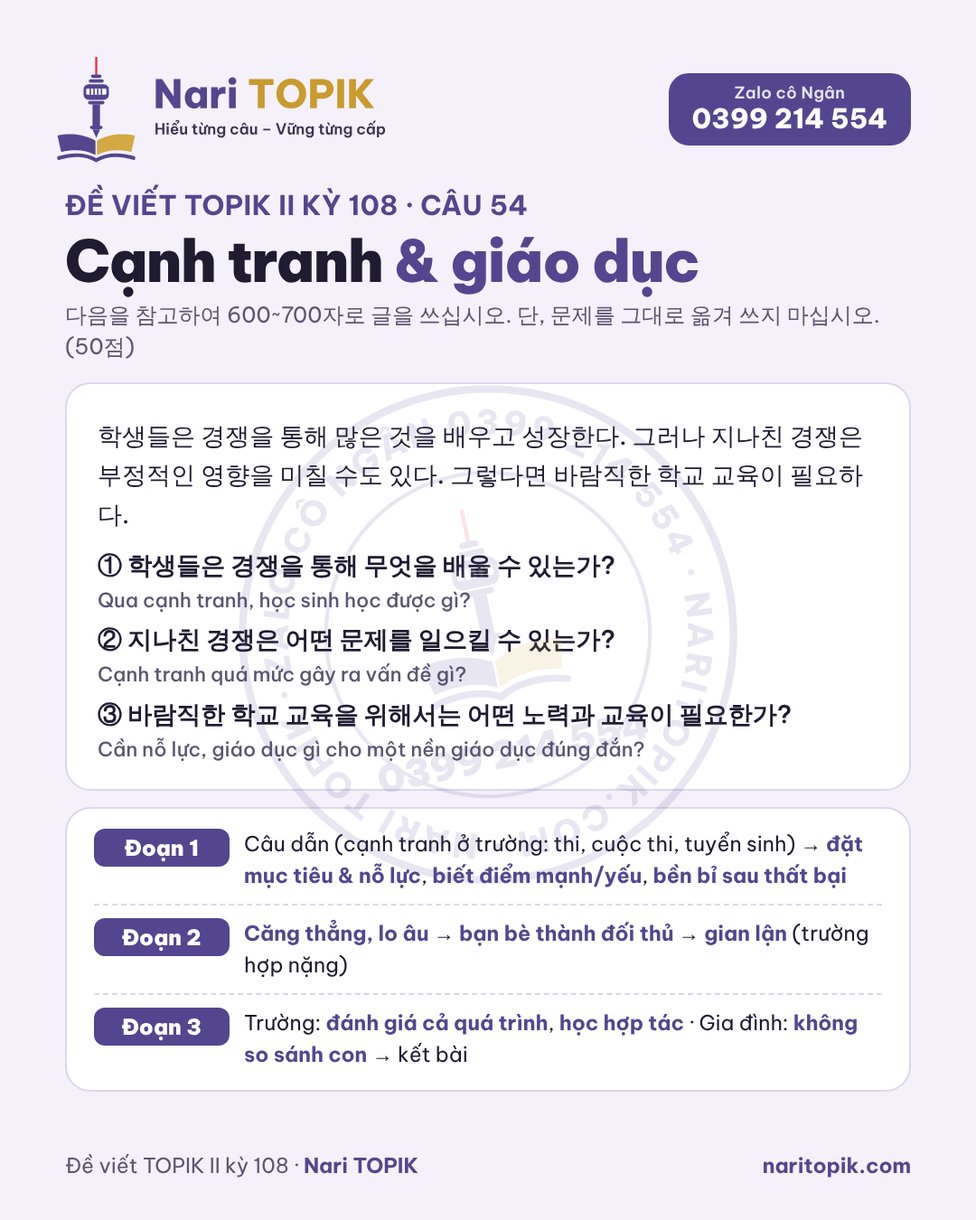
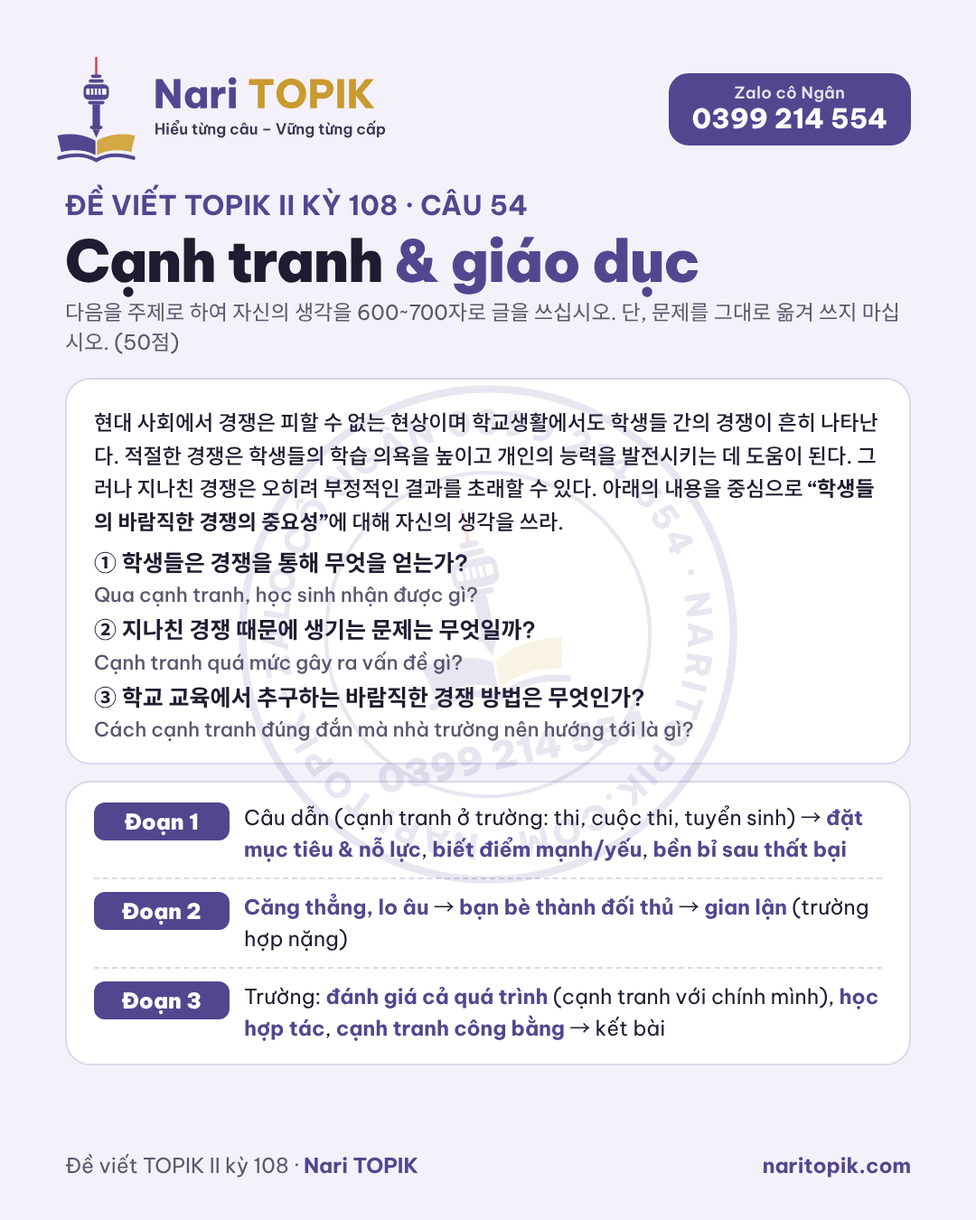
Đề viết kỳ 108: 2 ảnh đề sạch, sửa câu chữ đề theo bản đầy đủ (51, 52, 54) ở ảnh đáp án và ngân hàng đề
Claude-Session: https://claude.ai/code/session_01FuwFKNRPFAGRCemb9KsKcQ

Changed region(s): [[0.0611, 0.2489, 0.9167, 0.8711]]

diff --git a/fb/de-viet-108/de-2.html b/fb/de-viet-108/de-2.html
@@ -1,0 +1,67 @@
+<!doctype html><meta charset=utf-8><link rel=stylesheet href="../../quang-cao/topik2-len-3-4/base.css"><link rel=stylesheet href=de.css>
+<style>
+.hd{margin-top:22px;display:flex;align-items:baseline;justify-content:space-between}
+.hd .t{font-size:40px;font-weight:900;letter-spacing:-.5px}.hd .t span{color:var(--v)}
+.hd .n{font-size:22px;font-weight:700;color:var(--dim)}
+.ins{margin-top:14px;font-size:24px;font-weight:700;line-height:1.5}
+.ins u{text-underline-offset:4px}
+.qn{margin-top:18px;font-size:26px;font-weight:900;color:var(--v)}
+.bx{margin-top:8px;padding:20px 28px;font-size:25px;line-height:1.75;font-weight:500;word-break:keep-all}
+.bx b{font-weight:800}
+.bx ul{margin:6px 0 0 30px;line-height:1.7}
+.bl{display:inline-block;min-width:96px;text-align:center;color:var(--v);font-weight:800}
+
+.ch{margin-top:20px;padding:26px 30px}
+.ch .tt{text-align:center;font-size:36px;font-weight:900}
+.ch .src{font-size:22px;color:var(--dim);margin-top:4px;text-align:center}
+.two{display:grid;grid-template-columns:1fr 1fr;gap:18px;margin-top:20px}
+.box{border:2px solid var(--line);border-radius:20px;padding:16px 14px 10px}
+.box .bh{background:var(--v);color:#fff;font-weight:800;font-size:23px;text-align:center;border-radius:12px;padding:8px}
+svg{display:block;width:100%;margin-top:6px}
+svg text{font-family:'Be Vietnam Pro';fill:var(--ink)}
+.cause{margin-top:18px;display:grid;grid-template-columns:150px 1fr;border:2px solid var(--line);border-radius:20px;overflow:hidden}
+.cause .l{background:var(--ink);color:#fff;font-weight:800;font-size:26px;display:flex;align-items:center;justify-content:center;text-align:center;line-height:1.4}
+.cause .r{padding:16px 22px;font-size:25px;line-height:1.75;font-weight:600}
+.cause .r small{display:block;font-size:20px;color:var(--dim);font-weight:500;line-height:1.35;margin:-4px 0 6px}
+
+.ch{margin-top:10px;padding:16px 22px}.two{margin-top:12px}.cause{margin-top:12px}.cause .r{line-height:1.6;padding:12px 20px;font-size:23px}.box svg{margin-top:2px;height:215px}
+</style>
+<div class=top><img src="../../logo/nari-topik-ngang.svg"><div class="tag zalo"><small>Zalo cô Ngân</small>0399 214 554</div></div>
+<div class=hd><div class=t>제108회 TOPIK Ⅱ <span>쓰기</span></div><div class=n>51번 ~ 54번 · 2/2</div></div>
+<div class=ins>※ [53] 다음을 참고하여 ‘외국인 관광객 화장품 구매 현황’에 대한 글을 200~300자로 쓰십시오. 단, 글의 제목을 쓰지 마시오. (30점)</div>
+<div class="card ch"><div class=src style="text-align:left;font-weight:700;color:var(--ink)">※ 조사기관: 인주경제연구소</div>
+ <div class=two>
+  <div class=box><div class=bh>외국인 관광객 화장품 구매액</div>
+   <svg viewBox="0 0 420 300">
+    <text x="20" y="34" font-size="17">(단위: 원)</text>
+    <line x1="40" y1="44" x2="40" y2="244" stroke="#1F1B30" stroke-width="3"/><line x1="40" y1="244" x2="400" y2="244" stroke="#1F1B30" stroke-width="3"/>
+    <line x1="120" y1="200" x2="120" y2="244" stroke="#999" stroke-dasharray="5 5" stroke-width="2"/><line x1="320" y1="150" x2="320" y2="244" stroke="#999" stroke-dasharray="5 5" stroke-width="2"/>
+    <polygon points="200,70 240,106 220,106 220,140 180,140 180,106 160,106" fill="#ECE8F7" stroke="#53468F" stroke-width="2"/>
+    <text x="200" y="130" font-size="17" font-weight="900" text-anchor="middle" fill="#53468F">2배</text>
+    <line x1="120" y1="200" x2="320" y2="150" stroke="#53468F" stroke-width="5"/>
+    <circle cx="120" cy="200" r="9" fill="#53468F"/><circle cx="320" cy="150" r="9" fill="#53468F"/>
+    <text x="104" y="186" font-size="26" font-weight="800" text-anchor="middle">1조</text><text x="356" y="140" font-size="26" font-weight="800" text-anchor="middle">2조</text>
+    <text x="120" y="280" font-size="22" font-weight="700" text-anchor="middle">2023년</text><text x="320" y="280" font-size="22" font-weight="700" text-anchor="middle">2025년</text>
+   </svg></div>
+  <div class=box><div class=bh>업종별 화장품 매출액</div>
+   <svg viewBox="0 0 420 300">
+    <line x1="20" y1="44" x2="20" y2="226" stroke="#1F1B30" stroke-width="3"/><line x1="20" y1="226" x2="410" y2="226" stroke="#1F1B30" stroke-width="3"/>
+    <rect x="40" y="96" width="70" height="130" fill="#53468F"/><rect x="125" y="116" width="70" height="110" fill="#53468F"/>
+    <rect x="225" y="196" width="70" height="30" fill="#D4A843"/><rect x="315" y="70" width="70" height="156" fill="#D4A843"/>
+    <path d="M78 88 Q125 66 158 104" fill="none" stroke="#E0313F" stroke-width="4" marker-end="url(#ar)"/>
+    <path d="M262 186 Q270 70 345 52" fill="none" stroke="#E0313F" stroke-width="4" marker-end="url(#ar)"/>
+    <defs><marker id="ar" viewBox="0 0 10 10" refX="6" refY="5" markerWidth="5" markerHeight="5" orient="auto"><path d="M0 0L10 5L0 10z" fill="#E0313F"/></marker></defs>
+    <rect x="96" y="40" width="74" height="30" rx="8" fill="#1F1B30"/><text x="133" y="62" font-size="19" font-weight="800" text-anchor="middle" fill="#fff" style="fill:#fff">15%↓</text>
+    <rect x="236" y="22" width="74" height="30" rx="8" fill="#1F1B30"/><text x="273" y="44" font-size="19" font-weight="800" text-anchor="middle" style="fill:#fff">80%↑</text>
+    <text x="75" y="250" font-size="18" font-weight="700" text-anchor="middle">2023년</text><text x="160" y="250" font-size="18" font-weight="700" text-anchor="middle">2025년</text>
+    <text x="260" y="250" font-size="18" font-weight="700" text-anchor="middle">2023년</text><text x="350" y="250" font-size="18" font-weight="700" text-anchor="middle">2025년</text>
+    <text x="117" y="282" font-size="20" font-weight="800" text-anchor="middle">백화점·면세점</text><text x="305" y="282" font-size="20" font-weight="800" text-anchor="middle">중저가 소매업</text>
+   </svg></div>
+ </div>
+ <div class=cause><div class=l>변화<br>원인</div><div class=r>· 고가 상품의 구매 선호 ⇒ 실속형 상품의 구매 선호<br>· 화장품 사용 후기 콘텐츠 ↑ ⇒ 마케팅 효과 ↑</div></div>
+</div>
+<div class=ins style="margin-top:16px">※ [54] 다음을 주제로 하여 자신의 생각을 600~700자로 글을 쓰십시오. 단, 문제를 그대로 옮겨 쓰지 마십시오. (50점)</div>
+<div class="card bx" style="font-size:23px;line-height:1.65;padding:16px 26px">현대 사회에서 경쟁은 피할 수 없는 현상이며 학교생활에서도 학생들 간의 경쟁이 흔히 나타난다. 적절한 경쟁은 학생들의 학습 의욕을 높이고 개인의 능력을 발전시키는 데 도움이 된다. 그러나 지나친 경쟁은 오히려 부정적인 결과를 초래할 수 있다. 아래의 내용을 중심으로 <b>“학생들의 바람직한 경쟁의 중요성”</b>에 대해 자신의 생각을 쓰라.
+<ul><li>학생들은 경쟁을 통해 무엇을 얻는가?</li><li>지나친 경쟁 때문에 생기는 문제는 무엇일까?</li><li>학교 교육에서 추구하는 바람직한 경쟁 방법은 무엇인가?</li></ul></div>
+<div class=foot><span>Đề viết TOPIK II kỳ 108 · <b>Nari TOPIK</b></span><span><b>naritopik.com</b></span></div>
+<script src="../../quang-cao/wm.js"></script>

diff --git a/fb/de-viet-108/6-cau-54-de.html b/fb/de-viet-108/6-cau-54-de.html
@@ -2,7 +2,7 @@
 <div class=top><img src="../../logo/nari-topik-ngang.svg"><div class="tag zalo"><small>Zalo cô Ngân</small>0399 214 554</div></div>
 <style>
 .q .p{font-size:27px}
-.q ol{margin:12px 0 0 0;padding-left:0;list-style:none;font-size:27px;line-height:1.6;font-weight:600}
+.q{padding:20px 30px}.q ol{margin:8px 0 0 0;padding-left:0;list-style:none;font-size:25px;line-height:1.5;font-weight:600}
 .q ol li{margin-top:4px}
 .q ol li small{display:block;font-size:22px;color:var(--dim);font-weight:500}
 .plan{margin-top:18px;padding:8px 30px}
@@ -14,15 +14,15 @@
 </style>
 <div class=eye>Đề viết TOPIK II kỳ 108 · Câu 54</div>
 <h1>Cạnh tranh <span class=v>&amp; giáo dục</span></h1>
-<div class=lead style="font-size:24px;margin-top:8px">다음을 참고하여 600~700자로 글을 쓰십시오. 단, 문제를 그대로 옮겨 쓰지 마십시오. (50점)</div>
-<div class="card q"><div class=p>학생들은 경쟁을 통해 많은 것을 배우고 성장한다. 그러나 지나친 경쟁은 부정적인 영향을 미칠 수도 있다. 그렇다면 바람직한 학교 교육이 필요하다.</div>
-<ol><li>① 학생들은 경쟁을 통해 무엇을 배울 수 있는가?<small>Qua cạnh tranh, học sinh học được gì?</small></li>
-<li>② 지나친 경쟁은 어떤 문제를 일으킬 수 있는가?<small>Cạnh tranh quá mức gây ra vấn đề gì?</small></li>
-<li>③ 바람직한 학교 교육을 위해서는 어떤 노력과 교육이 필요한가?<small>Cần nỗ lực, giáo dục gì cho một nền giáo dục đúng đắn?</small></li></ol></div>
+<div class=lead style="font-size:23px;margin-top:6px">다음을 주제로 하여 자신의 생각을 600~700자로 글을 쓰십시오. 단, 문제를 그대로 옮겨 쓰지 마십시오. (50점)</div>
+<div class="card q"><div class=p style="font-size:23px;line-height:1.6">현대 사회에서 경쟁은 피할 수 없는 현상이며 학교생활에서도 학생들 간의 경쟁이 흔히 나타난다. 적절한 경쟁은 학생들의 학습 의욕을 높이고 개인의 능력을 발전시키는 데 도움이 된다. 그러나 지나친 경쟁은 오히려 부정적인 결과를 초래할 수 있다. 아래의 내용을 중심으로 <b>“학생들의 바람직한 경쟁의 중요성”</b>에 대해 자신의 생각을 쓰라.</div>
+<ol><li>① 학생들은 경쟁을 통해 무엇을 얻는가?<small>Qua cạnh tranh, học sinh nhận được gì?</small></li>
+<li>② 지나친 경쟁 때문에 생기는 문제는 무엇일까?<small>Cạnh tranh quá mức gây ra vấn đề gì?</small></li>
+<li>③ 학교 교육에서 추구하는 바람직한 경쟁 방법은 무엇인가?<small>Cách cạnh tranh đúng đắn mà nhà trường nên hướng tới là gì?</small></li></ol></div>
 <div class="card plan">
  <div class=r><span class=d>Đoạn 1</span><span class=t>Câu dẫn (cạnh tranh ở trường: thi, cuộc thi, tuyển sinh) → <b>đặt mục tiêu &amp; nỗ lực</b>, <b>biết điểm mạnh/yếu</b>, <b>bền bỉ sau thất bại</b></span></div>
  <div class=r><span class=d>Đoạn 2</span><span class=t><b>Căng thẳng, lo âu</b> → <b>bạn bè thành đối thủ</b> → <b>gian lận</b> (trường hợp nặng)</span></div>
- <div class=r><span class=d>Đoạn 3</span><span class=t>Trường: <b>đánh giá cả quá trình</b>, <b>học hợp tác</b> · Gia đình: <b>không so sánh con</b> → kết bài</span></div>
+ <div class=r><span class=d>Đoạn 3</span><span class=t>Trường: <b>đánh giá cả quá trình</b> (cạnh tranh với chính mình), <b>học hợp tác</b>, <b>cạnh tranh công bằng</b> → kết bài</span></div>
 </div>
 <div class=foot><span>Đề viết TOPIK II kỳ 108 · <b>Nari TOPIK</b></span><span><b>naritopik.com</b></span></div>
 <script src="../../quang-cao/wm.js"></script>

diff --git a/fb/de-viet-108/7-cau-54-mau.html b/fb/de-viet-108/7-cau-54-mau.html
@@ -3,11 +3,11 @@
 <style>.essay{font-size:25.5px;line-height:1.7;padding:24px 32px;margin-top:16px}.essay p+p{margin-top:10px}</style>
 <div class=eye>Đề viết TOPIK II kỳ 108 · Câu 54</div>
 <h1 style="font-size:58px">Bài mẫu <span class=g>câu 54</span></h1>
-<div class=meta><span><b>~650</b> chữ (tính dấu cách)</span><span>3 câu hỏi = 3 đoạn</span><span><mark style="background:var(--vs);color:var(--v);font-weight:800;padding:0 6px;border-radius:6px">tím</mark> từ nối</span></div>
+<div class=meta><span><b>~660</b> chữ (tính dấu cách)</span><span>3 câu hỏi = 3 đoạn</span><span><mark style="background:var(--vs);color:var(--v);font-weight:800;padding:0 6px;border-radius:6px">tím</mark> từ nối</span></div>
 <div class="card essay">
 <p>학생들은 학교에서 시험, 대회, 입시 등 다양한 경쟁을 경험한다. 경쟁은 학생들에게 많은 것을 가르쳐 준다. <mark>먼저</mark> 학생들은 경쟁을 통해 목표를 세우고 그 목표를 이루기 위해 꾸준히 노력하는 법을 배운다. <mark>또한</mark> 다른 친구들과 자신을 비교하면서 자신의 장점과 부족한 점을 알게 되고, 실패를 경험하며 다시 도전하는 끈기도 기를 수 있다.</p>
 <p><mark>그러나</mark> 경쟁이 지나치면 여러 가지 문제가 생길 수 있다. 성적과 순위만 중요하게 여기다 보면 학생들은 큰 스트레스와 불안감을 느끼게 되고, 이는 정신 건강에도 나쁜 영향을 미친다. <mark>그리고</mark> 친구를 함께 성장하는 동료가 아니라 이겨야 할 상대로 보게 되어 친구 관계가 나빠질 수 있다. <mark>심한 경우에는</mark> 좋은 결과를 얻기 위해 부정행위를 하는 학생이 생기기도 한다.</p>
-<p><mark>따라서</mark> 학생들이 경쟁 속에서도 건강하게 성장하려면 학교와 가정의 노력이 필요하다. <mark>우선</mark> 학교는 결과만이 아니라 과정과 노력을 평가하는 다양한 평가 방식을 마련해야 한다. <mark>또한</mark> 친구와 함께 문제를 해결하는 협동 학습을 늘려 학생들이 협력의 가치를 배울 수 있도록 해야 한다. <mark>가정에서도</mark> 부모가 자녀를 다른 아이와 비교하지 말고 자녀의 노력을 인정해 주어야 할 것이다. <mark>이처럼</mark> 학교와 가정이 함께 노력할 때 경쟁은 학생들을 성장시키는 좋은 자극이 될 수 있을 것이다.</p>
+<p><mark>따라서</mark> 학교 교육에서는 경쟁이 건강하게 이루어지도록 이끌어야 한다. <mark>우선</mark> 결과만이 아니라 과정과 노력을 평가하는 다양한 평가 방식을 마련하여 학생들이 남이 아닌 어제의 자신과 경쟁하게 해야 한다. <mark>또한</mark> 모둠 과제처럼 친구와 함께 문제를 해결하는 협동 학습을 늘려 경쟁 속에서도 협력의 가치를 배울 수 있도록 해야 한다. <mark>그리고</mark> 규칙을 지키며 공정하게 경쟁하는 태도를 가르치는 것도 중요하다. <mark>이처럼</mark> 바람직한 방법으로 경쟁할 때 경쟁은 학생들을 성장시키는 좋은 자극이 될 수 있을 것이다.</p>
 </div>
 <div class=foot><span>Đề viết TOPIK II kỳ 108 · <b>Nari TOPIK</b></span><span><b>naritopik.com</b></span></div>
 <script src="../../quang-cao/wm.js"></script>

diff --git a/fb/de-viet-108/3-cau-52.html b/fb/de-viet-108/3-cau-52.html
@@ -1,12 +1,12 @@
 <!doctype html><meta charset=utf-8><link rel=stylesheet href="../../quang-cao/topik2-len-3-4/base.css"><link rel=stylesheet href=de.css>
 <div class=top><img src="../../logo/nari-topik-ngang.svg"><div class="tag zalo"><small>Zalo cô Ngân</small>0399 214 554</div></div>
-<style>h1{font-size:58px}.q{padding:20px 30px}.q .p{font-size:26px;line-height:1.55}.an{padding:18px 30px 18px}.an .k .a{font-size:36px}.an .why{font-size:22px}.why b{white-space:nowrap}</style>
+<style>h1{font-size:58px}.q{padding:18px 30px}.q .ti{font-size:25px}.q .p{font-size:24.5px;line-height:1.5;margin-top:4px}.an{padding:18px 30px 18px}.an .k .a{font-size:36px}.an .why{font-size:22px}.why b{white-space:nowrap}</style>
 <div class=eye>Đề viết TOPIK II kỳ 108 · Câu 52</div>
 <h1>Vứt <span class=v>thuốc cũ</span> đúng cách</h1>
-<div class="card q"><div class=p>사람들은 보통 먹다가 남은 약을 버리지 않고 약통에 두는 경우가 많다. 오래된 약은 효과가 떨어지므로 먹지 말고 <span class=bl>㉠</span> 좋다. 그런데 약을 일반 쓰레기로 버리면 안 된다. 토양을 오염시키기 때문이다. 만약 약통에 오래된 <span class=bl>㉡</span> 함부로 버리지 말고 약국이나 보건소에 가서 버리는 것이 좋다.</div></div>
+<div class="card q"><div class=ti>오래된 약 처리 방법</div><div class=p>사람들은 보통 약을 먹다가 먹지 않은 약을 버리지 않고 약상자에 그대로 두는 경우가 많다. 오래된 약은 효과가 떨어지므로 먹지 말고 <span class=bl>㉠</span> 좋다. 그런데 그 약을 일반 쓰레기로 버리면 안 된다. 약의 성분이 땅을 오염시킬 수 있기 때문이다. 만약 약상자에 오래된 <span class=bl>㉡</span> 함부로 버리지 말고 약국이나 보건소에 있는 수거함에 넣으면 된다.</div></div>
 <div class="card an"><div class=k><span class=m>㉠</span><span class=a>버리는 것이</span></div>
  <div class=alt><b>Cũng được:</b> <span>버리는 편이</span><span>버리는 게</span></div>
- <div class=why><u>먹지 말고</u> = “đừng uống mà …” → việc nên làm thay vào đó; câu sau “<u>그런데 약을 … 버리면 안 된다</u>” → động từ <b>버리다</b>; trước <u>좋다</u> dùng <b>-는 것이 좋다</b>.</div></div>
+ <div class=why><u>먹지 말고</u> = “đừng uống mà …” → việc nên làm thay vào đó; câu sau “<u>그런데 그 약을 … 버리면 안 된다</u>” → động từ <b>버리다</b>; trước <u>좋다</u> dùng <b>-는 것이 좋다</b>.</div></div>
 <div class="card an"><div class=k><span class=m>㉡</span><span class=a>약이 있다면</span></div>
  <div class=alt><b>Cũng được:</b> <span>약이 있으면</span><span>약이 남아 있다면</span><span>약을 두었다면</span><span>약이 있을 경우</span></div>
  <div class=why><u>만약</u> đi cặp với điều kiện <b>-다면 / -(으)면</b>. <u>오래된</u> đứng trước nên ô bắt đầu bằng danh từ <b>약</b>.</div></div>

diff --git a/fb/de-viet-108/2-cau-51.html b/fb/de-viet-108/2-cau-51.html
@@ -3,13 +3,13 @@
 <style>h1{font-size:58px}.q{padding:20px 30px}.q .p{font-size:26px;line-height:1.55}.an{padding:18px 30px 18px}.an .k .a{font-size:36px}.an .why{font-size:22px}</style>
 <div class=eye>Đề viết TOPIK II kỳ 108 · Câu 51</div>
 <h1>Email hỏi <span class=v>đặt phòng</span></h1>
-<div class="card q"><div class=ti>제목: 호텔 방 예약 문의</div><div class=p>반려동물과 함께 쓸 수 있는 방을 예약하려고 합니다. 방을 <span class=bl>㉠</span> 확인하고 싶은 것이 있습니다. 강아지 두 마리를 데리고 가면 추가 비용을 더 <span class=bl>㉡</span>? 호텔 예약 안내를 확인했지만 관련 내용을 찾을 수 없었습니다. 확인하신 후 답변해 주시면 감사하겠습니다.</div></div>
+<div class="card q"><div class=ti>제목: 호텔 예약 문의</div><div class=p>안녕하세요. 반려동물과 함께 쓸 수 있는 방으로 예약하려고 합니다. 방을 <span class=bl>㉠</span> 확인하고 싶은 것이 있습니다. 혹시 강아지 두 마리를 데리고 가면 비용을 더 <span class=bl>㉡</span>? 홈페이지에 자세한 정보가 없어서 문의드립니다. 답변 부탁드립니다.</div></div>
 <div class="card an"><div class=k><span class=m>㉠</span><span class=a>예약하기 전에</span></div>
  <div class=alt><b>Cũng được:</b> <span>예약하기 전에 먼저</span><span>예약하기 전에 미리</span><span>예약하기에 앞서</span><span>예약할 때</span></div>
  <div class=why>Câu 1 “<u>예약하려고 합니다</u>” = chưa đặt → ô là lúc <b>trước khi đặt</b>, nối với “확인하고 싶은 것”.</div></div>
 <div class="card an"><div class=k><span class=m>㉡</span><span class=a>내야 합니까</span></div>
  <div class=alt><b>Cũng được:</b> <span>내야 됩니까</span><span>지불해야 합니까</span><span>내야 하나요</span></div>
- <div class=why>Có <u>추가 비용을 더</u> + dấu <u>?</u> → hỏi “có phải trả (thêm) không”. Ô có dấu ? thì viết đuôi câu hỏi.</div></div>
+ <div class=why>Có <u>혹시</u> … <u>비용을 더</u> + dấu <u>?</u> → hỏi “có phải trả thêm tiền không”. Ô có dấu ? thì viết đuôi câu hỏi.</div></div>
 <div class=tip>💡 <b>Đuôi câu:</b> cả thư dùng <b>-ㅂ니다</b> nên ㉡ viết <b>-ㅂ니까</b> là chắc nhất. Không chép lại “더”, “비용” đã có trong đề.</div>
 <div class=foot><span>Đề viết TOPIK II kỳ 108 · <b>Nari TOPIK</b></span><span><b>naritopik.com</b></span></div>
 <script src="../../quang-cao/wm.js"></script>

diff --git a/fb/de-viet-108/de-1.html b/fb/de-viet-108/de-1.html
@@ -1,0 +1,22 @@
+<!doctype html><meta charset=utf-8><link rel=stylesheet href="../../quang-cao/topik2-len-3-4/base.css"><link rel=stylesheet href=de.css>
+<style>
+.hd{margin-top:22px;display:flex;align-items:baseline;justify-content:space-between}
+.hd .t{font-size:40px;font-weight:900;letter-spacing:-.5px}.hd .t span{color:var(--v)}
+.hd .n{font-size:22px;font-weight:700;color:var(--dim)}
+.ins{margin-top:14px;font-size:24px;font-weight:700;line-height:1.5}
+.ins u{text-underline-offset:4px}
+.qn{margin-top:18px;font-size:26px;font-weight:900;color:var(--v)}
+.bx{margin-top:8px;padding:20px 28px;font-size:25px;line-height:1.75;font-weight:500;word-break:keep-all}
+.bx b{font-weight:800}
+.bx ul{margin:6px 0 0 30px;line-height:1.7}
+.bl{display:inline-block;min-width:96px;text-align:center;color:var(--v);font-weight:800}
+</style>
+<div class=top><img src="../../logo/nari-topik-ngang.svg"><div class="tag zalo"><small>Zalo cô Ngân</small>0399 214 554</div></div>
+<div class=hd><div class=t>제108회 TOPIK Ⅱ <span>쓰기</span></div><div class=n>51번 ~ 54번 · 1/2</div></div>
+<div class=ins>※ [51~52] 다음을 읽고 ㉠과 ㉡에 들어갈 말을 <u>각각 한 문장</u>으로 쓰십시오. (각 10점)</div>
+<div class=qn>51.</div>
+<div class="card bx"><b>제목: 호텔 예약 문의</b><br>안녕하세요.<br>반려동물과 함께 쓸 수 있는 방으로 예약하려고 합니다.<br>방을 (<span class=bl>㉠</span>) 확인하고 싶은 것이 있습니다.<br>혹시 강아지 두 마리를 데리고 가면 비용을 더 (<span class=bl>㉡</span>)?<br>홈페이지에 자세한 정보가 없어서 문의드립니다.<br>답변 부탁드립니다.</div>
+<div class=qn>52.</div>
+<div class="card bx"><b>오래된 약 처리 방법</b><br>사람들은 보통 약을 먹다가 먹지 않은 약을 버리지 않고 약상자에 그대로 두는 경우가 많다. 오래된 약은 효과가 떨어지므로 먹지 말고 (<span class=bl>㉠</span>) 좋다. 그런데 그 약을 일반 쓰레기로 버리면 안 된다. 약의 성분이 땅을 오염시킬 수 있기 때문이다. 만약 약상자에 오래된 (<span class=bl>㉡</span>) 함부로 버리지 말고 약국이나 보건소에 있는 수거함에 넣으면 된다.</div>
+<div class=foot><span>Đề viết TOPIK II kỳ 108 · <b>Nari TOPIK</b></span><span><b>naritopik.com</b></span></div>
+<script src="../../quang-cao/wm.js"></script>

diff --git a/fb/de-viet-108/1-bia.html b/fb/de-viet-108/1-bia.html
@@ -21,7 +21,7 @@
  <div class=card><span class=n>Câu 51</span><div class=t>호텔 방 예약 문의</div><div class=s>Email hỏi đặt phòng khách sạn cho thú cưng</div></div>
  <div class=card><span class=n>Câu 52</span><div class=t>오래된 약 버리기</div><div class=s>Cách vứt thuốc cũ đúng cách</div></div>
  <div class="card g"><span class=n>Câu 53</span><div class=t>외국인 관광객<br>화장품 구매 현황</div><div class=s>Biểu đồ + nguyên nhân</div></div>
- <div class="card g"><span class=n>Câu 54</span><div class=t>학생들의 경쟁과<br>학교 교육</div><div class=s>Cạnh tranh trong học sinh</div></div>
+ <div class="card g"><span class=n>Câu 54</span><div class=t>바람직한 경쟁의<br>중요성</div><div class=s>Cạnh tranh lành mạnh của học sinh</div></div>
 </div>
 <div class=note>Đề do thí sinh nhớ lại sau giờ thi. Đáp án và bài mẫu do Nari TOPIK soạn — lưu lại để ôn nhé 🔖</div>
 <div class=foot><span>Đề viết TOPIK II kỳ 108 · <b>Nari TOPIK</b></span><span><b>naritopik.com</b></span></div>

diff --git a/fb/de-viet-108/4-cau-53-de.html b/fb/de-viet-108/4-cau-53-de.html
@@ -16,7 +16,7 @@ svg text{font-family:'Be Vietnam Pro';fill:var(--ink)}
 </style>
 <div class=eye>Đề viết TOPIK II kỳ 108 · Câu 53</div>
 <h1>Biểu đồ <span class=v>mua mỹ phẩm</span></h1>
-<div class=lead style="font-size:25px;margin-top:10px">다음을 참고하여 ‘외국인 관광객 화장품 구매 현황’에 대한 글을 200~300자로 쓰십시오. 단, 글의 제목은 쓰지 마십시오.</div>
+<div class=lead style="font-size:25px;margin-top:10px">다음을 참고하여 ‘외국인 관광객 화장품 구매 현황’에 대한 글을 200~300자로 쓰십시오. 단, 글의 제목을 쓰지 마시오. (30점)</div>
 <div class="card ch">
  <div class=tt>외국인 관광객 화장품 구매 현황</div>
  <div class=src>※ 조사 기관: 인주경제연구소</div>

diff --git a/fb/de-viet-108/de.css b/fb/de-viet-108/de.css
@@ -1,3 +1,6 @@
+@import url('https://fonts.googleapis.com/css2?family=Noto+Sans+KR:wght@400;500;700;900&display=swap');
+body{font-family:'Be Vietnam Pro','Noto Sans KR',sans-serif}
+svg text{font-family:'Be Vietnam Pro','Noto Sans KR'}
 /* Bộ ảnh "Đề viết TOPIK II kỳ 108" (1080×1350), dùng cùng base.css */
 .eye{margin-top:22px}
 h1{font-size:64px;margin-top:8px}

diff --git a/CLAUDE.md b/CLAUDE.md
@@ -186,7 +186,7 @@ Repo để công khai vì Pages miễn phí yêu cầu vậy — tuyệt đối 
   track 1 giới thiệu, track 2–21 = câu 1–20, track chẵn 22…30 = cặp 21–22…29–30 → `de/audio/Etk083n-*.mp3` (câu 1–30; 31–50 chưa có).
   Đồng bộ chỉ 2 đề này (không dump cả ngân hàng): ghi `de/Etk083*.json` bằng hàm của `sync_kho.py`, rồi sửa mục `e.Etk083`, `e.Etk083n` trong `site/kho`.
   Câu 53 kỳ 64: `W53_064` (ảnh biểu đồ cắt từ ảnh đề cô gửi, `dang:[1,3,7]`, bài mẫu chính thức 3 ý).
-  Viết kỳ 108 (18.10.2026, **đề thí sinh nhớ lại**) đủ 51–54: `W51_108`…`W54_108` (đáp án 51–52 có nhiều cách viết, bài mẫu 53–54 do Claude soạn — giống bộ ảnh `fb/de-viet-108/`;
+  Viết kỳ 108 (18.10.2026, **đề thí sinh nhớ lại**, câu chữ theo bản của Tiếng Hàn Thầy Tư) đủ 51–54: `W51_108`…`W54_108` (đáp án 51–52 có nhiều cách viết, bài mẫu 53–54 do Claude soạn — giống bộ ảnh `fb/de-viet-108/`;
   ảnh `W53_108.jpg` = biểu đồ vẽ lại, chụp từ `fb/de-viet-108/4-cau-53-de.html` bỏ dấu mờ). Khi có đề công bố chính thức thì đối chiếu, sửa lại.
   Viết kỳ 83 đủ 51–54 ở `wbank` (`W53_083` ảnh biểu đồ cắt từ PDF đề, có ý “Triển vọng”; `W54_083` sáng tạo – 창의력).
 - Ngân hàng đề nằm trong cơ sở dữ liệu của trang quản lý (collection `bank`, câu hỏi ở `bank/<id>/q/<qid>`).
@@ -479,5 +479,6 @@ Repo để công khai vì Pages miễn phí yêu cầu vậy — tuyệt đối 
   (chữ để trên + hai bên, vì trên điện thoại ảnh đại diện che giữa phía dưới), `ghim-1` bài ghim, loạt “Một từ, một câu chuyện” `tu-NN-*.html`
   (khung `tu.css`, từ lấy từ phần `Cốt lõi` của `thi-thu/vocab.json` + số đề trong `tu-vung/de.json`), lời đăng ở `caption.md`.
   Dùng chung `quang-cao/topik2-len-3-4/base.css`. Chụp PNG: `node tools/chup_anh.js fb/ca-nhan/*.html` (cỡ khác 1080×1350 ghi `<meta name=size content="WxH">`).
-- `fb/de-viet-108/`: đề viết kỳ 108 (18.10.2026, đề thí sinh nhớ lại) — 7 ảnh: bìa, 51, 52 (đáp án + cách viết khác), 53 đề (biểu đồ vẽ lại bằng SVG) + bài mẫu, 54 đề + dàn ý + bài mẫu; `de.css`, lời đăng `caption.md`.
+- `fb/de-viet-108/`: đề viết kỳ 108 (18.10.2026, đề thí sinh nhớ lại, câu chữ theo bản của Tiếng Hàn Thầy Tư) — 2 ảnh đề sạch `de-1`/`de-2` cho bài chính,
+  ảnh đáp án đăng ở comment: bìa, 51, 52 (đáp án + cách viết khác), 53 đề (biểu đồ vẽ lại bằng SVG) + bài mẫu, 54 đề + dàn ý + bài mẫu; `de.css`, lời đăng `caption.md`.
 - Cô: cử nhân Quản trị kinh doanh Đại học Daegu, đang ở Quỳnh Lưu, dạy trực tiếp tại Quỳnh Lưu + online toàn quốc.

diff --git a/fb/de-viet-108/caption.md b/fb/de-viet-108/caption.md
@@ -1,24 +1,33 @@
 # Đề viết TOPIK II kỳ 108 (18.10.2026) — bài đăng Facebook
 
-Ảnh theo thứ tự: `1-bia` → `2-cau-51` → `3-cau-52` → `4-cau-53-de` → `5-cau-53-mau` → `6-cau-54-de` → `7-cau-54-mau`.
+Bài đăng: 2 ảnh đề sạch `de-1` (51–52) → `de-2` (53–54).
+Comment đáp án: `2-cau-51` → `3-cau-52` → `4-cau-53-de` → `5-cau-53-mau` → `6-cau-54-de` → `7-cau-54-mau` (`1-bia` dùng khi muốn đăng gộp một bài).
+Câu chữ đề theo bản đã nhớ lại của Tiếng Hàn Thầy Tư (đủ hơn bản đầu).
 Sửa chữ trong `*.html` rồi chụp lại: `node tools/chup_anh.js fb/de-viet-108/*.html`.
 
-## Lời đăng
+## Lời đăng (bài chính – 2 ảnh đề)
 
-📝 ĐỀ VIẾT TOPIK II KỲ 108 (18/10/2026) – ĐÁP ÁN GỢI Ý & BÀI MẪU
+📝 ĐỀ VIẾT TOPIK II KỲ 108 (18/10/2026)
 
-Các em vừa thi xong hôm nay vất vả rồi! Cô gửi đáp án gợi ý câu 51–52 (kèm vài cách viết khác vẫn được điểm) và bài mẫu câu 53–54 để các em tự so bài nhé.
+Các em vừa thi xong hôm nay vất vả rồi! Cô gửi lại đề viết câu 51–54 kỳ 108 để các em lưu lại, tự làm lại một lần nữa nhé.
 
 ✍ Câu 51 – Email hỏi đặt phòng khách sạn cho thú cưng
-㉠ 예약하기 전에 · ㉡ 내야 합니까
-✍ Câu 52 – Vứt thuốc cũ đúng cách
-㉠ 버리는 것이 · ㉡ 약이 있다면
-📊 Câu 53 – Tình hình mua mỹ phẩm của khách du lịch nước ngoài (bài mẫu 285 chữ)
-📚 Câu 54 – Cạnh tranh trong học sinh và giáo dục ở trường (bài mẫu ~650 chữ, 3 câu hỏi = 3 đoạn)
+✍ Câu 52 – Cách xử lý thuốc cũ
+📊 Câu 53 – Tình hình mua mỹ phẩm của khách du lịch nước ngoài
+📚 Câu 54 – Tầm quan trọng của cạnh tranh lành mạnh ở học sinh
 
-⚠ Đề do thí sinh nhớ lại nên có thể khác đề gốc một chút; đáp án là gợi ý của Nari TOPIK.
+👇 Đáp án gợi ý câu 51–52 (kèm vài cách viết khác vẫn được điểm) và bài mẫu câu 53–54 cô để ở comment.
+
+⚠ Đề do thí sinh nhớ lại nên có thể khác đề gốc một chút.
 
 Em nào muốn cô chữa bài viết của mình theo từng câu, so với bài mẫu thì nhắn Zalo cô 0399 214 554 nhé 💜
 🌐 naritopik.com
 
 #TOPIK #TOPIK108 #쓰기 #NariTOPIK #TiengHan
+
+## Comment đáp án (mỗi comment 1–2 ảnh)
+
+1. (ảnh 2-cau-51) Câu 51: ㉠ 예약하기 전에 · ㉡ 내야 합니까 — kèm các cách viết khác vẫn được điểm.
+2. (ảnh 3-cau-52) Câu 52: ㉠ 버리는 것이 · ㉡ 약이 있다면.
+3. (ảnh 4-cau-53-de + 5-cau-53-mau) Câu 53: bài mẫu 285 chữ, tô sẵn các mẫu câu nên học.
+4. (ảnh 6-cau-54-de + 7-cau-54-mau) Câu 54: dàn ý 3 đoạn + bài mẫu ~660 chữ, tô sẵn từ nối.
